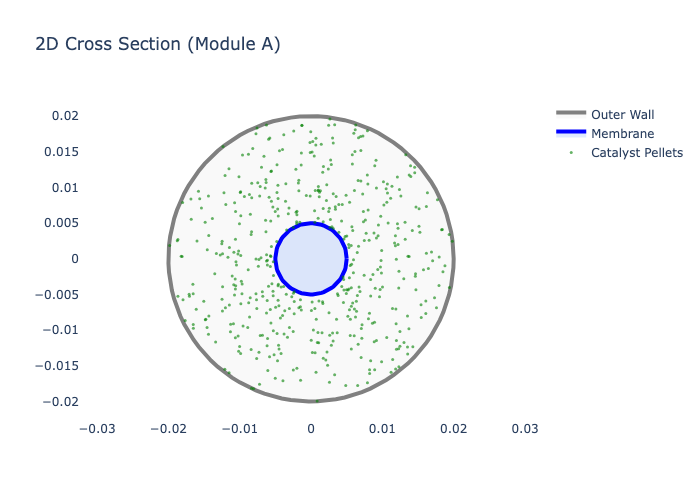
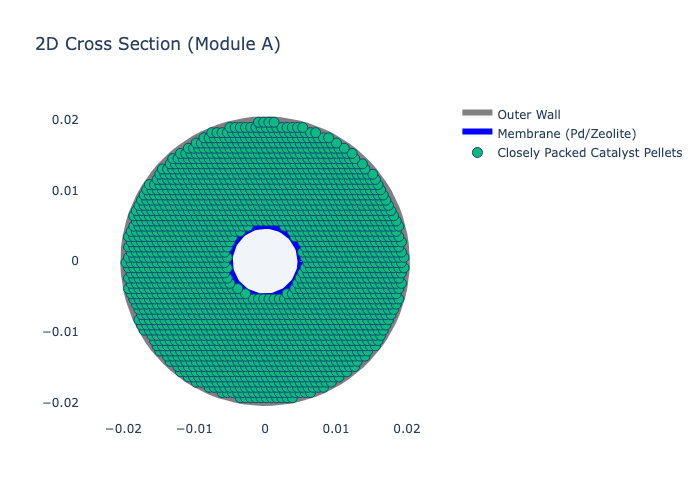
fix: update diagram to show closely packed catalyst bed

diff --git a/scripts/generate_3d_diagrams.py b/scripts/generate_3d_diagrams.py
@@ -21,29 +21,49 @@ def generate_diagrams(module_name, catalyst_location='annulus', feed_label='Feed
     theta = np.linspace(0, 2*np.pi, 100)
     x_wall = dw/2 * np.cos(theta)
     y_wall = dw/2 * np.sin(theta)
-    fig.add_trace(go.Scatter(x=x_wall, y=y_wall, mode='lines', line=dict(color='gray', width=4), name='Outer Wall', fill='toself', fillcolor='rgba(200,200,200,0.1)'))
+    fig.add_trace(go.Scatter(x=x_wall, y=y_wall, mode='lines', line=dict(color='gray', width=6), name='Outer Wall', fill='toself', fillcolor='rgba(200,200,200,0.1)'))
 
     # Membrane
     x_mem = dm/2 * np.cos(theta)
     y_mem = dm/2 * np.sin(theta)
-    fig.add_trace(go.Scatter(x=x_mem, y=y_mem, mode='lines', line=dict(color='blue', width=4), name='Membrane', fill='toself', fillcolor='rgba(100,150,255,0.2)'))
+    fig.add_trace(go.Scatter(x=x_mem, y=y_mem, mode='lines', line=dict(color='black' if catalyst_location == 'lumen' else 'blue', width=6), name='Membrane (Pd/Zeolite)', fill='toself', fillcolor='rgba(100,150,255,0.05)'))
 
-    # Catalyst
-    if catalyst_location == 'annulus':
-        r_cat = np.random.uniform(dm/2, dw/2, 500)
-    else: # lumen
-        r_cat = np.random.uniform(0, dm/2, 500)
-        
-    theta_cat = np.random.uniform(0, 2*np.pi, 500)
-    x_cat = r_cat * np.cos(theta_cat)
-    y_cat = r_cat * np.sin(theta_cat)
-    fig.add_trace(go.Scatter(x=x_cat, y=y_cat, mode='markers', marker=dict(color='green', size=3, opacity=0.6), name='Catalyst Pellets'))
+    # Catalyst (Closely Packed Bed Grid)
+    pellet_radius_2d = dm / 30
+    x_grid = np.arange(-dw/2, dw/2, pellet_radius_2d * 2.2)
+    y_grid = np.arange(-dw/2, dw/2, pellet_radius_2d * 2.2)
+    xx, yy = np.meshgrid(x_grid, y_grid)
+    
+    # Offset every other row for hexagonal close packing look
+    for i in range(yy.shape[0]):
+        if i % 2 == 1:
+            xx[i] += pellet_radius_2d * 1.1
+            
+    xx_flat, yy_flat = xx.flatten(), yy.flatten()
+    
+    x_cat, y_cat = [], []
+    for x, y in zip(xx_flat, yy_flat):
+        r = np.sqrt(x**2 + y**2)
+        if catalyst_location == 'annulus':
+            if r > dm/2 + pellet_radius_2d and r < dw/2 - pellet_radius_2d:
+                x_cat.append(x)
+                y_cat.append(y)
+        else: # lumen
+            if r < dm/2 - pellet_radius_2d:
+                x_cat.append(x)
+                y_cat.append(y)
+                
+    fig.add_trace(go.Scatter(x=x_cat, y=y_cat, mode='markers', 
+                             marker=dict(color='#0284c7' if catalyst_location=='lumen' else '#10b981', 
+                                         size=10, opacity=1.0, line=dict(color='#0c4a6e', width=1)), 
+                             name='Closely Packed Catalyst Pellets'))
 
     fig.update_layout(
         title=f'2D Cross Section ({module_name})',
         xaxis=dict(scaleanchor="y", scaleratio=1, showgrid=False, zeroline=False),
         yaxis=dict(showgrid=False, zeroline=False),
-        template='plotly_white'
+        template='plotly_white',
+        plot_bgcolor='white'
     )
     fig.write_image(f"figures/2d_cross_section_{module_name.lower().replace(' ', '_')}.png")
 
@@ -51,7 +71,7 @@ def generate_diagrams(module_name, catalyst_location='annulus', feed_label='Feed
     fig3 = go.Figure()
 
     z_mesh = np.linspace(0, L, 50)
-    theta_mesh = np.linspace(0, np.pi, 30) # Only half cylinder for cutaway
+    theta_mesh = np.linspace(0, np.pi, 30) # Only bottom half for cutaway
     Z, Theta = np.meshgrid(z_mesh, theta_mesh)
 
     R_wall = (dw/2) * 5
@@ -63,28 +83,72 @@ def generate_diagrams(module_name, catalyst_location='annulus', feed_label='Feed
     X_mem = R_mem * np.cos(Theta)
     Y_mem = R_mem * np.sin(Theta)
 
-    fig3.add_trace(go.Surface(x=Z, y=X_mem, z=Y_mem, colorscale='Blues', opacity=0.8, showscale=False, name="Membrane"))
-    fig3.add_trace(go.Surface(x=Z, y=X_wall, z=Y_wall, colorscale='Greys', opacity=0.3, showscale=False, name="Outer Wall"))
+    fig3.add_trace(go.Surface(x=Z, y=X_mem, z=Y_mem, colorscale='Greys' if catalyst_location == 'lumen' else 'Blues', opacity=1.0, showscale=False, name="Membrane"))
+    fig3.add_trace(go.Surface(x=Z, y=X_wall, z=Y_wall, colorscale='Greys', opacity=0.2, showscale=False, name="Outer Wall"))
 
+    # 3D Catalyst (Ordered Packed Bed)
+    z_cat_grid = np.linspace(L*0.05, L*0.95, 45)
+    
     if catalyst_location == 'lumen':
+        r_grid = np.linspace(0.01, R_mem * 0.85, 5)
+    else:
+        r_grid = np.linspace(R_mem * 1.15, R_wall * 0.9, 6)
+        
+    theta_cat_grid = np.linspace(0, np.pi, 20) 
+    
+    X3, Y3, Z3 = [], [], []
+    for z in z_cat_grid:
+        for r in r_grid:
+            for t in theta_cat_grid:
+                if r == 0 and t > 0: continue 
+                X3.append(r * np.cos(t))
+                Y3.append(r * np.sin(t))
+                Z3.append(z)
+                
+    fig3.add_trace(go.Scatter3d(
+        x=Z3, y=X3, z=Y3,
+        mode='markers',
+        marker=dict(
+            color='#0284c7' if catalyst_location=='lumen' else '#10b981',
+            size=6,
+            opacity=1.0,
+            line=dict(color='#0c4a6e', width=2)
+        ),
+        name="Packed Catalyst Bed"
+    ))
+
+    # Flow Arrows
+    if catalyst_location == 'lumen':
+        # Feed inside lumen
         fig3.add_trace(go.Scatter3d(
             x=[-0.05, 0], y=[0, 0], z=[0, 0],
+            mode='lines+text', line=dict(color='cyan', width=8),
+            text=[feed_label, ""], textposition="middle left", name="Feed"
+        ))
+        # Permeate escaping lumen to annulus radially
+        fig3.add_trace(go.Scatter3d(
+            x=[L/2, L/2], y=[R_mem*1.2, R_wall*1.2], z=[0, 0],
             mode='lines+text', line=dict(color='red', width=5),
-            text=[feed_label, ""], textposition="middle left"
+            text=["", perm_label], textposition="middle right", name="Permeate"
         ))
         fig3.add_trace(go.Scatter3d(
-            x=[L/2, L/2], y=[R_mem, R_wall], z=[0, 0],
-            mode='lines+text', line=dict(color='orange', width=3),
-            text=["", perm_label], textposition="middle right"
+            x=[L/3, L/3], y=[R_mem*1.2, R_wall*1.2], z=[0, 0],
+            mode='lines', line=dict(color='red', width=5), showlegend=False
         ))
+        fig3.add_trace(go.Scatter3d(
+            x=[2*L/3, 2*L/3], y=[R_mem*1.2, R_wall*1.2], z=[0, 0],
+            mode='lines', line=dict(color='red', width=5), showlegend=False
+        ))
+        # Retentate from lumen and sweep from annulus
         fig3.add_trace(go.Scatter3d(
             x=[L, L+0.05], y=[0, 0], z=[0, 0],
-            mode='lines+text', line=dict(color='green', width=5),
-            text=["", retentate_label], textposition="middle right"
+            mode='lines+text', line=dict(color='cyan', width=8),
+            text=["", retentate_label], textposition="middle right", name="Retentate"
         ))
     else:
+        # Catalyst in annulus (Module A)
         fig3.add_trace(go.Scatter3d(
-            x=[-0.05, 0], y=[R_wall/2, R_wall/2], z=[0, 0],
+            x=[-0.05, 0], y=[R_wall*0.7, R_wall*0.7], z=[0, 0],
             mode='lines+text', line=dict(color='red', width=5),
             text=[feed_label, ""], textposition="middle left"
         ))
